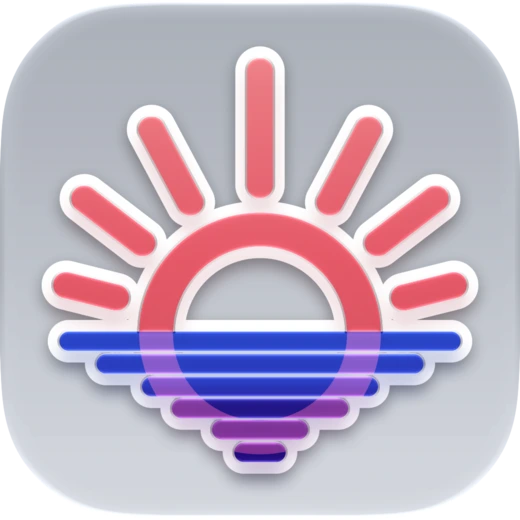
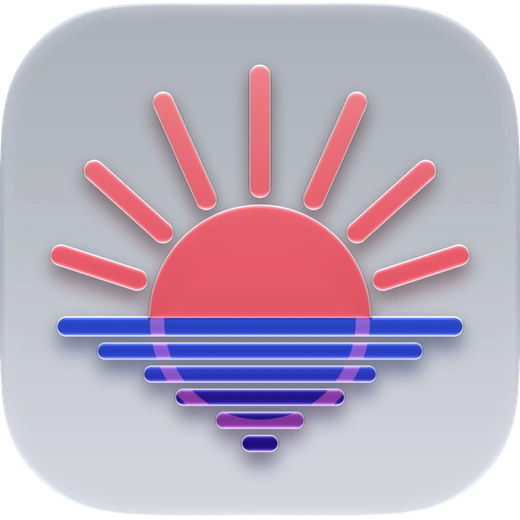
Generate the Arc Spectrum tile and edged email marks from approved artwork

diff --git a/scripts/build-brand-assets.js b/scripts/build-brand-assets.js
@@ -579,6 +579,26 @@ async function buildSiteAssets(sunrise) {
       .toBuffer());
   }
 
+  // These older signature URLs are still embedded in email. Keep their
+  // light edging so the ink remains legible on dark message backgrounds.
+  const signatureMark = await silhouettePng(sunrise.inkMotif, 344, ink);
+  const edgedSignature = `<svg xmlns="http://www.w3.org/2000/svg" xmlns:xlink="http://www.w3.org/1999/xlink" width="48" height="48" viewBox="0 0 48 48">
+    <defs><filter id="edge" x="0" y="0" width="48" height="48" filterUnits="userSpaceOnUse">
+      <feMorphology in="SourceAlpha" operator="dilate" radius="0.65" result="outline"/>
+      <feFlood flood-color="white"/><feComposite in2="outline" operator="in"/>
+      <feMerge><feMergeNode/><feMergeNode in="SourceGraphic"/></feMerge>
+    </filter></defs>
+    <image x="2.5" y="2.5" width="43" height="43" filter="url(#edge)" xlink:href="${pngDataUri(signatureMark)}"/>
+  </svg>`;
+  await emit('site/public/blanc-email-signature.png', await raster(edgedSignature, 96));
+  await emit('site/public/blanc-email-signature-48.png', await raster(edgedSignature, 48));
+
+  // The Arc welcome page shows the light macOS Spectrum tile edge to edge.
+  const spectrumDock = path.join(ROOT, 'chromium/blanc/branding/beta/dock/SunriseSpectrum-light.png');
+  const spectrumTile = await sharp(spectrumDock).extract({ left: 100, top: 100, width: 824, height: 824 })
+    .resize(520, 520).webp({ quality: 95, alphaQuality: 100, effort: 6 }).toBuffer();
+  await emit('site/public/arc/sunrise-spectrum-icon.webp', spectrumTile);
+
   // Favicons carry the rays-only crop (the app's own ≤16px rule); the 180px
   // touch icon has room for the full mark.
   const favicon = tileSvg(pngDataUri(await silhouettePng(sunrise.inkFaviconMotif, 256, ink)));
